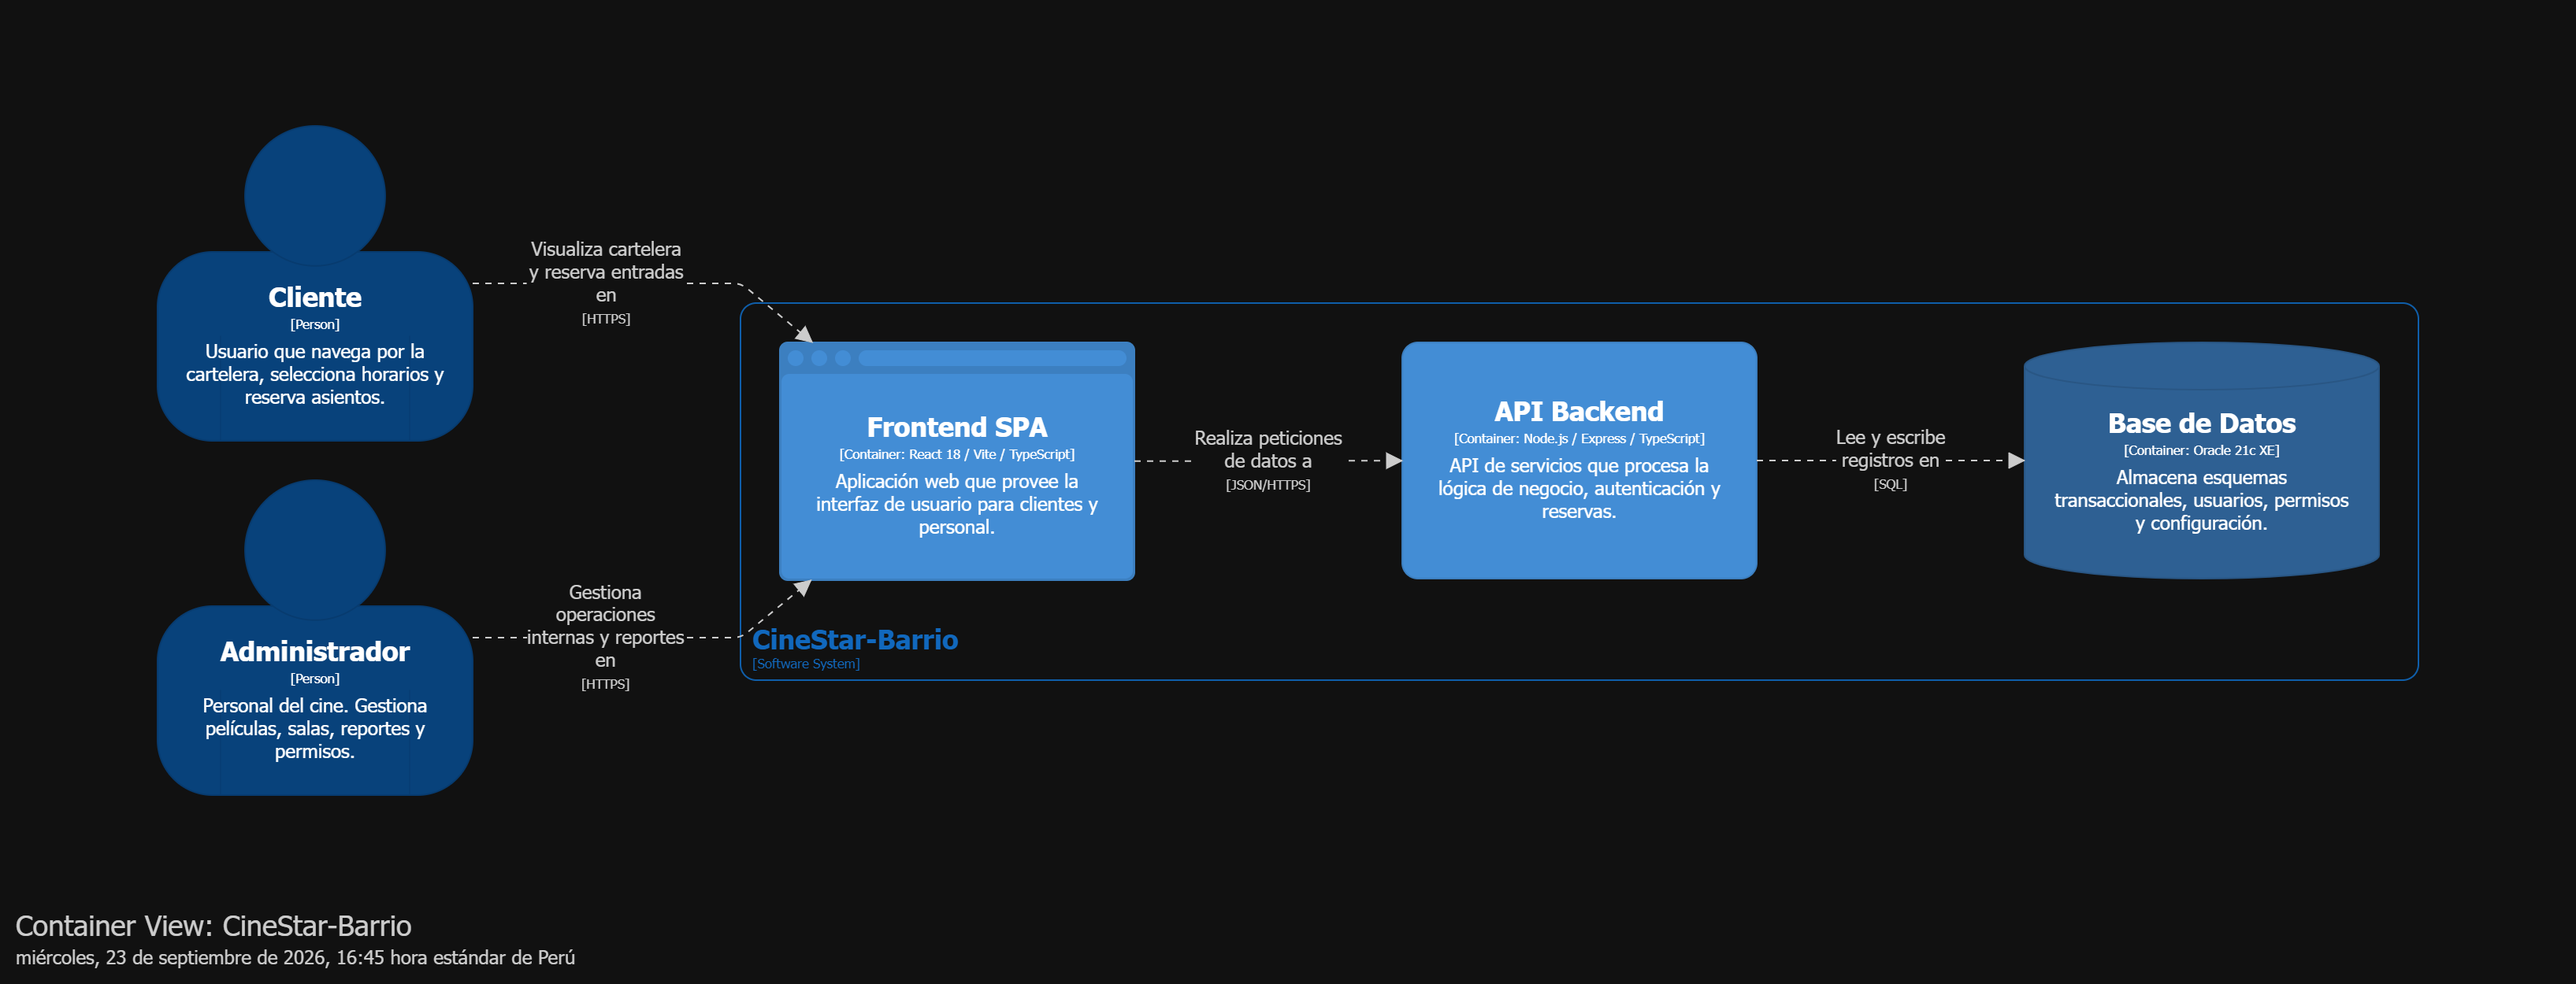
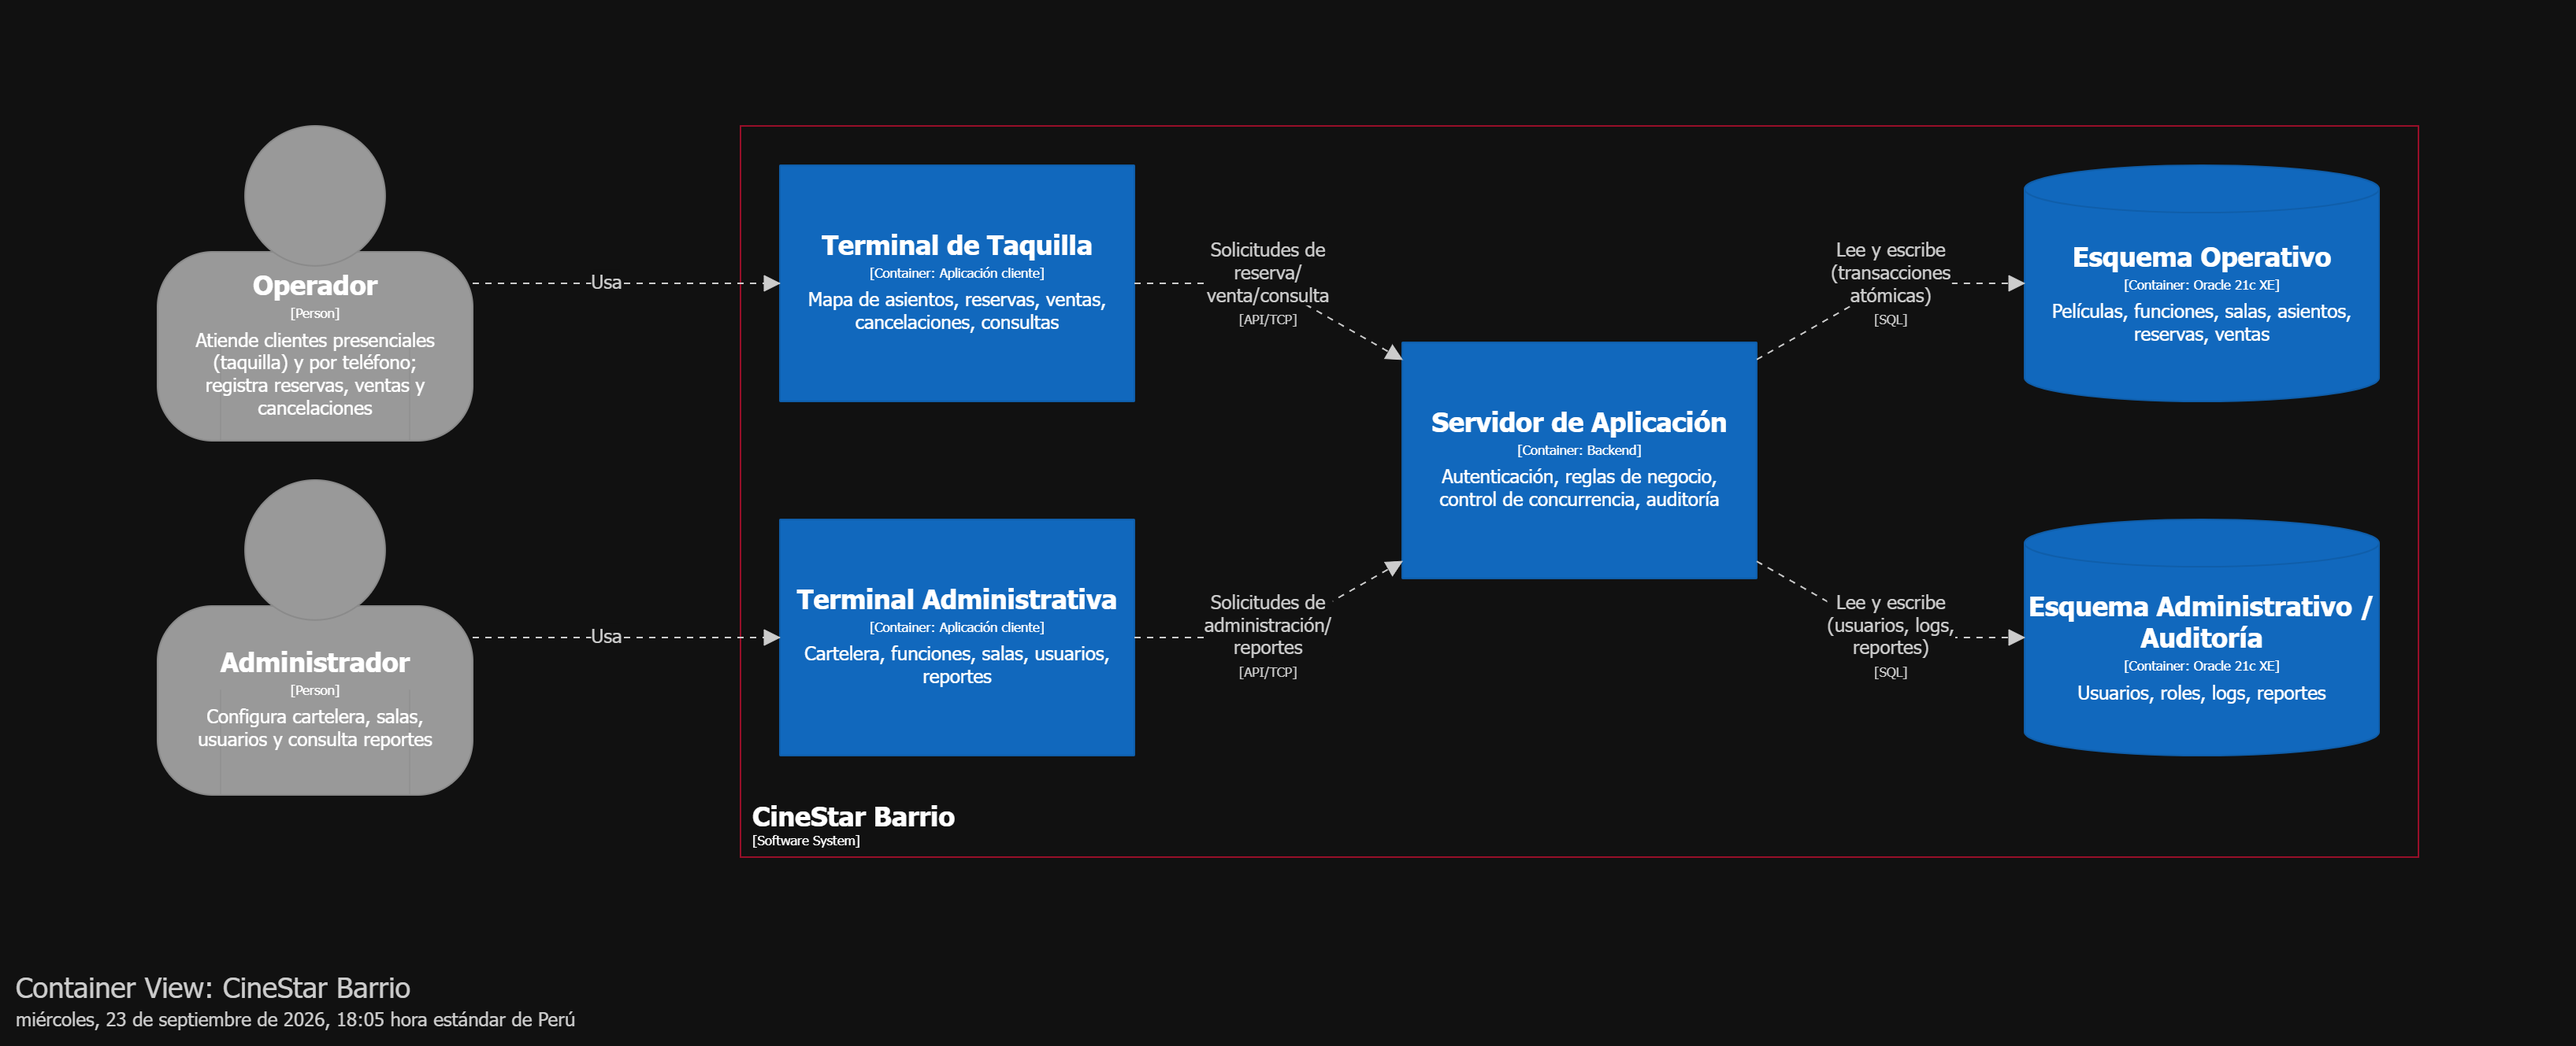
Update C4

diff --git a/docs/c4/leyenda.md b/docs/c4/leyenda.md
@@ -1,17 +1,59 @@
-# Leyenda del Modelo C4
+# Leyenda del Modelo C4 — CineStar Barrio
 
-**1. Qué muestra cada figura:**
-El modelo expone la arquitectura actual de CineStar-Barrio. Muestra la interacción de clientes y administradores con la SPA en React 18, la comunicación vía JSON/HTTPS hacia el backend en Node.js/Express, y la persistencia hacia Oracle 21c XE. A nivel de componentes, el backend se divide en las siguientes responsabilidades lógicas:
+## 1. Qué muestra cada figura
 
-- **Módulo de Seguridad:** Gestiona la autenticación, autorización y cuentas de usuario.
-- **Catálogo de Cine:** Administra el registro de películas y la infraestructura de salas.
-- **Programación de Funciones:** Gestiona la cartelera, horarios y asignación de películas.
-- **Gestión de Reservas:** Procesa la selección de asientos y confirmación de entradas.
-- **Analítica y Reportes:** Genera métricas, estadísticas y consultas para administración.
-- **Gestor de Base de Datos:** Centraliza el pool de conexiones y transacciones hacia Oracle.
+- **Nivel 1 — Contexto:** representamos nuestro sistema como una única caja
+  (CineStar Barrio) junto a los dos roles que interactúan directamente con él:
+  Operador (taquilla y teléfono, un mismo rol) y Administrador. No modelamos
+  sistemas externos porque nuestro alcance no contempla ninguno: no manejamos
+  pasarela de pago en línea, ni programa de fidelización, ni venta de alimentos.
 
-**2. Qué se dejó afuera a propósito:**
-Se omitieron las tecnologías de la futura migración (NestJS, PostgreSQL) y el nombre "Lumiere" para documentar estrictamente el código `as-is`. Tampoco se incluyeron sistemas externos (pasarelas de pago o correos institucionales), ya que no existen en la implementación actual.
+- **Nivel 2 — Contenedores:** abrimos el sistema en dos aplicaciones cliente
+  (Terminal de Taquilla y Terminal Administrativa) que consumen un Servidor de
+  Aplicación central, el cual persiste contra Oracle 21c XE dividido en dos
+  esquemas (Esquema Operativo y Esquema Administrativo/Auditoría), tal como nos
+  exigía el proyecto: la base de datos debía ser obligatoriamente Oracle 21c XE,
+  organizada en al menos dos esquemas. No fijamos lenguaje ni framework de las
+  aplicaciones cliente ni del servidor, porque esa decisión quedaba libre a
+  nuestro criterio como equipo de desarrollo.
 
-**3. Observación del equipo:**
-Al modelar los componentes del backend, descubrimos que el "Gestor de Base de Datos" actúa como un embudo crítico. Todos los demás módulos (seguridad, catálogo, reservas) golpean directamente a Oracle a través de este único punto, sin ningún mecanismo de caché, balanceador o cola de mensajes intermedio. Esto hace evidente por qué el sistema sufre de concurrencia frágil al reservar butacas, tal como documentamos en la ficha del sistema.
+- **Nivel 3 — Componentes:** detallamos el interior del Servidor de Aplicación en
+  ocho responsabilidades lógicas, descritas en la sección siguiente.
+
+## 2. Responsabilidades de los componentes
+
+| Componente (nombre exacto en el DSL) | Responsabilidad |
+|---|---|
+| Autenticación y Autorización | Valida credenciales, roles y permisos de acceso por esquema |
+| Cartelera y Funciones | Administra películas y funciones, valida solapamiento de horarios |
+| Salas y Asientos | Configura la disposición de asientos de cada sala |
+| Reservas y Ventas | Controla la concurrencia, ejecuta transacciones atómicas y emite el código único de boleto |
+| Cancelaciones | Libera el asiento y dispara el registro de auditoría |
+| Consultas | Expone disponibilidad en tiempo real e historial de reservas y ventas |
+| Reportes | Genera métricas de ocupación, ventas y cancelaciones para administración |
+| Auditoría / Logging | Registra operaciones críticas con usuario y marca de tiempo |
+
+## 3. Qué se dejó afuera a propósito y Observación
+
+**Qué dejamos afuera:** documentamos estrictamente lo que nos pedía la
+especificación de requerimientos, no una implementación futura. Por eso omitimos:
+cualquier stack tecnológico específico de cliente o backend, ya que esa decisión
+quedaba libre a nuestro criterio; la pasarela de pago en línea, el programa de
+fidelización y la venta de alimentos, excluidos explícitamente de nuestro
+alcance; y cualquier mecanismo de infraestructura que no nos pidieron (caché,
+cola de mensajes, balanceador).
+
+**Observación crítica del equipo:** al modelar el nivel de componentes notamos
+que todo el peso de negocio converge en un único componente, **Reservas y
+Ventas**, que es el único que golpea directamente al Esquema Operativo bajo
+presión concurrente —porque debe garantizar que un mismo asiento nunca quede en
+más de una reserva, que no se pueda confirmar una venta si ya se alcanzó el cupo
+de la sala, y que si dos operadores intentan reservar el mismo asiento al mismo
+tiempo, solo uno de ellos tenga éxito— y es también el único componente con
+relación directa hacia Auditoría. No incluimos ningún mecanismo intermedio
+—caché, cola, particionamiento— entre ese componente y la base de datos. Esto no
+es un descuido de nuestro modelo, sino un reflejo fiel de lo que se nos pidió,
+pero nos deja en claro el punto de mayor riesgo del proyecto: si no implementamos
+correctamente el control de concurrencia (mediante bloqueos, transacciones con
+aislamiento adecuado o control optimista de versiones), toda la garantía de
+"no sobreventa" de nuestro sistema depende de ese único componente.
